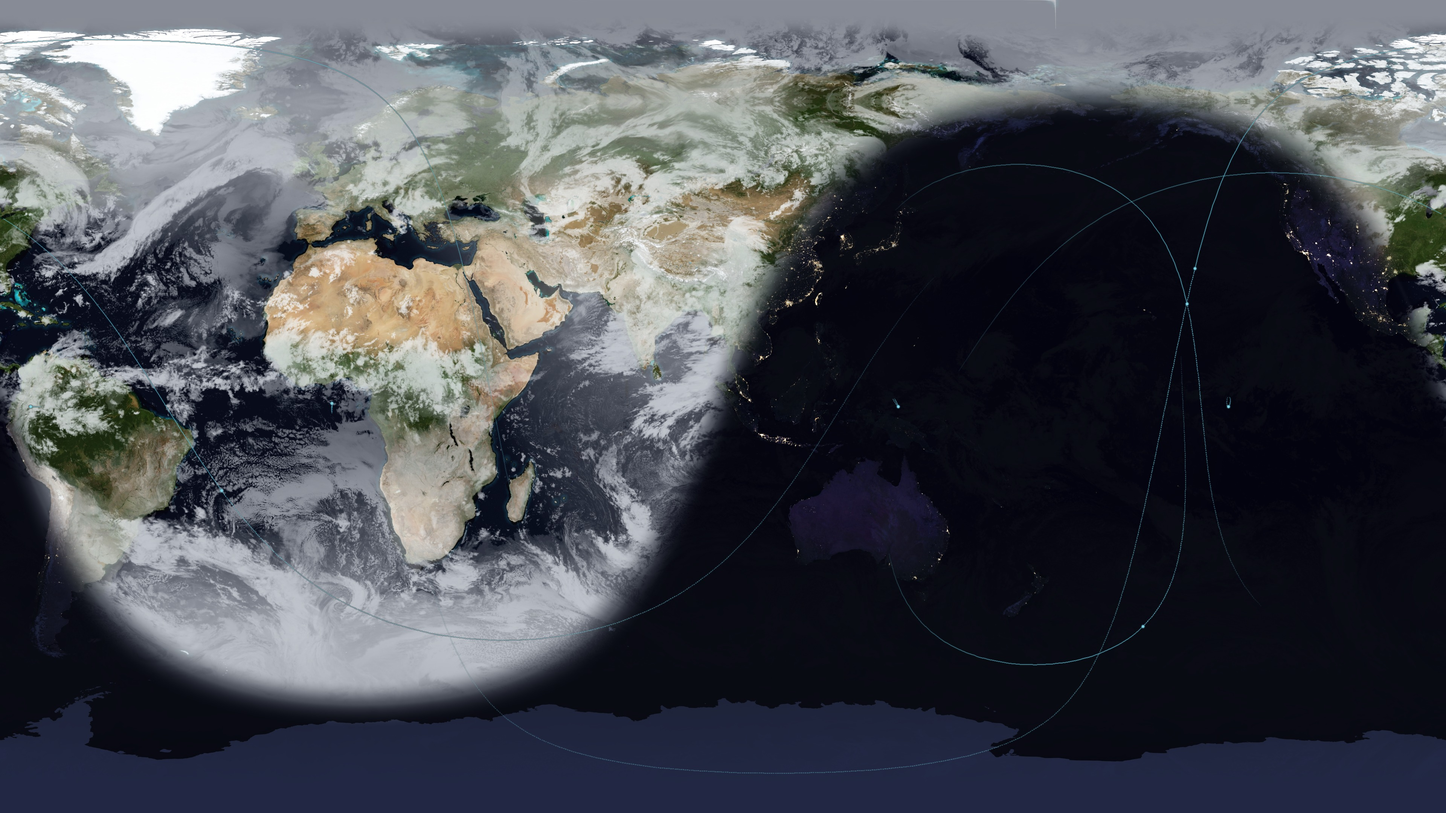
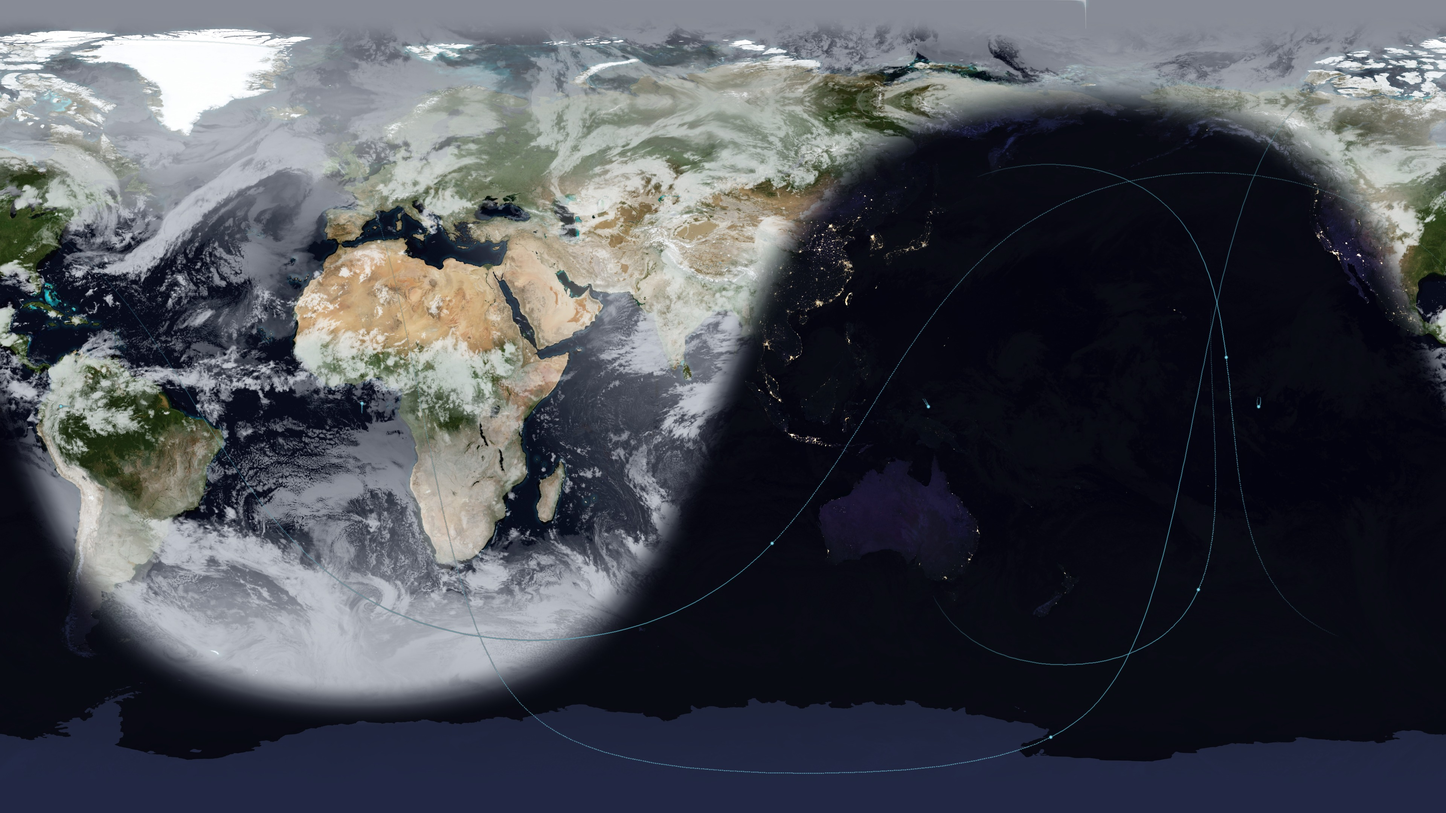
Update Desktop Earth web view

diff --git a/index.html b/index.html
@@ -146,7 +146,7 @@
     <figure>
       <div class="print">
         <img src="desktop-earth.jpg" width="3840" height="2160" alt="Current Planetary Runtime view">
-        <figcaption class="stamp">Updated 01 Jul 2026 20:31 JST</figcaption>
+        <figcaption class="stamp">Updated 01 Jul 2026 21:01 JST</figcaption>
       </div>
     </figure>
     <section class="metadata" aria-label="Image metadata">
